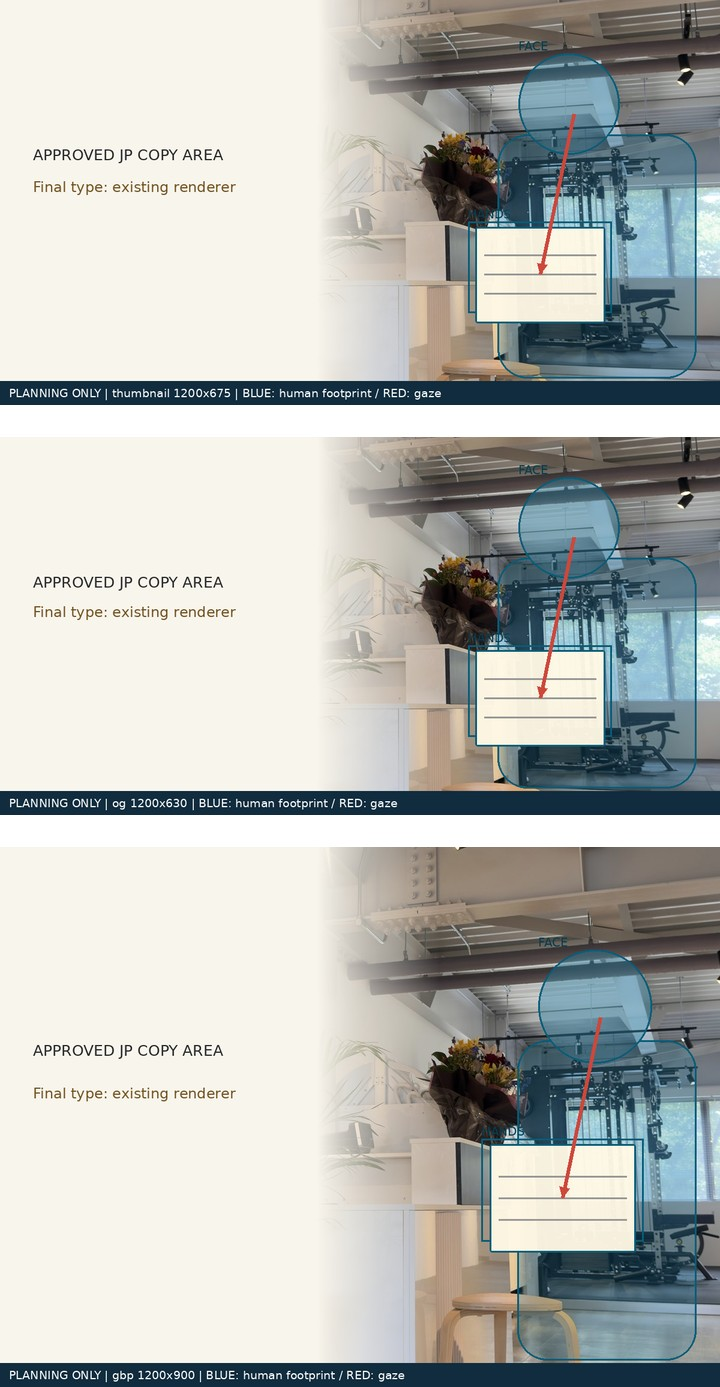
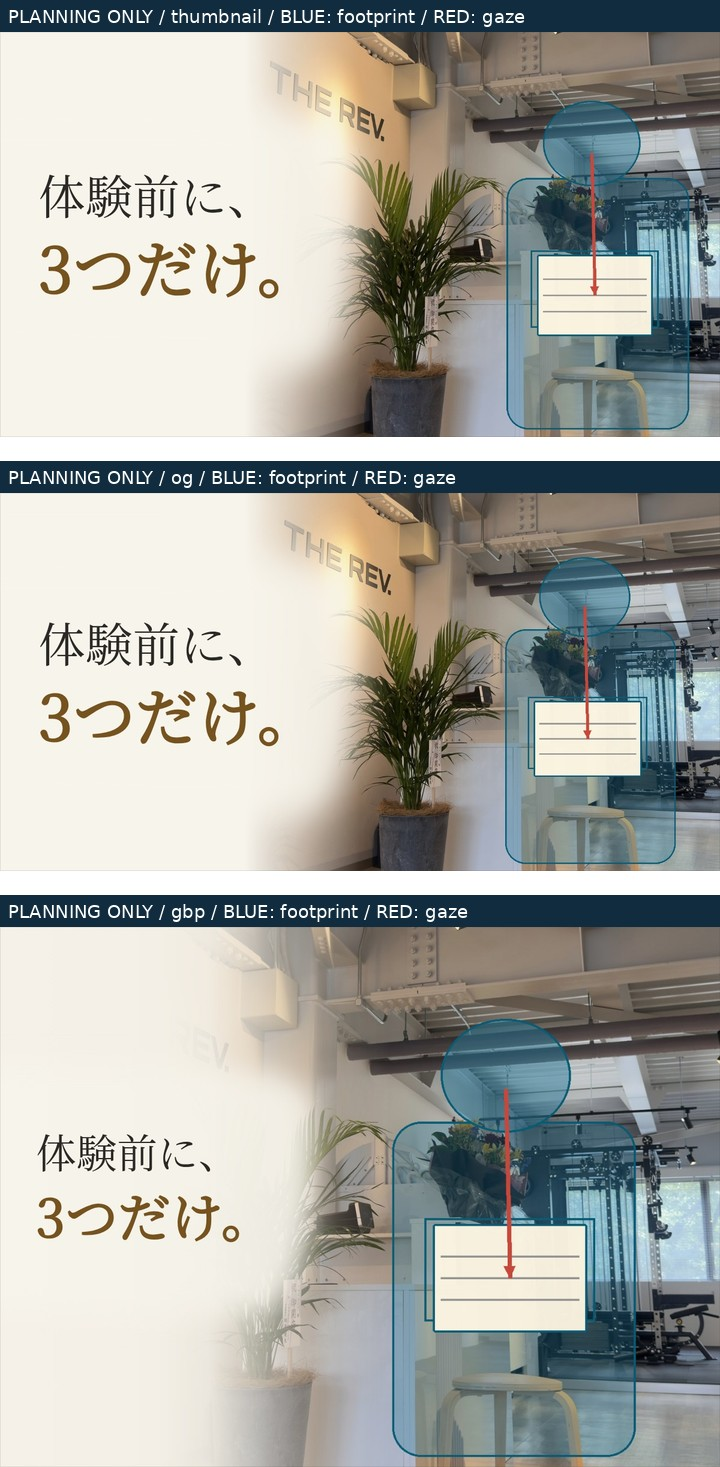
Verify Oct18 planning crops and copy through canonical offline renderer

diff --git a/scripts/render-oct18-v31-layout-plan.py b/scripts/render-oct18-v31-layout-plan.py
@@ -1,56 +1,69 @@
-"""Render exact pre-generation planning diagrams; no AI or candidate photograph."""
+"""Render a deterministic planning footprint through the real offline renderer.
+No AI calls, publication images, production job or DB mutations.
+"""
 from pathlib import Path
-import json, math, hashlib
+import hashlib, json, math, subprocess, tempfile
 from PIL import Image, ImageDraw, ImageFont
-root = Path('editorial/prepublication/2026-10-18-contract-checklist/v31-r8')
+repo = Path.cwd()
+root = repo / 'editorial/prepublication/2026-10-18-contract-checklist/v31-r8'
 report = json.loads((root / 'FREE_PREFLIGHT.json').read_text())
 brief = json.loads((root / 'CREATIVE_BRIEF.json').read_text())
-source = Image.open(brief['source']['path']).convert('RGB')
+job = json.loads((root / 'PROPOSED_JOB.json').read_text())
+source = Image.open(repo / brief['source']['path']).convert('RGB')
 scale = max(1536/source.width, 1024/source.height)
 source = source.resize((round(source.width*scale), round(source.height*scale)), Image.Resampling.LANCZOS)
 left, top = (source.width-1536)//2, (source.height-1024)//2
-scene = source.crop((left,top,left+1536,top+1024))
-font = '/usr/share/fonts/truetype/dejavu/DejaVuSans.ttf'
+scene = source.crop((left, top, left+1536, top+1024)).convert('RGBA')
+layer = Image.new('RGBA', scene.size)
+d = ImageDraw.Draw(layer)
+shot = brief['shot_contract']
+def box(key):
+    x,y,x2,y2 = shot[key]
+    return (x*1536,y*1024,x2*1536,y2*1024)
+face,hands,paper = [box(k) for k in ['face_box','hands_box','paper_box']]
+d.rounded_rectangle(box('torso_box'), radius=55, fill=(36,125,162,80), outline=(7,93,120,255), width=4)
+d.ellipse(face, fill=(36,125,162,120), outline=(7,93,120,255), width=4)
+d.rectangle(hands, outline=(7,93,120,255), width=4)
+d.rounded_rectangle(paper, radius=5, fill=(255,248,229,250), outline=(7,93,120,255), width=4)
+for t in [.3,.5,.7]:
+    yy=paper[1]+(paper[3]-paper[1])*t
+    d.line((paper[0]+15,yy,paper[2]-15,yy), fill=(150,150,150,255), width=4)
+start=tuple(a*b for a,b in zip(shot['gaze_from'],[1536,1024]))
+end=tuple(a*b for a,b in zip(shot['gaze_to'],[1536,1024]))
+d.line((*start,*end), fill=(206,71,59,255), width=8)
+a=math.atan2(end[1]-start[1],end[0]-start[0])
+d.polygon([end,(end[0]-25*math.cos(a-.45),end[1]-25*math.sin(a-.45)),(end[0]-25*math.cos(a+.45),end[1]-25*math.sin(a+.45))],fill=(206,71,59,255))
+scene=Image.alpha_composite(scene,layer).convert('RGB')
+font=ImageFont.truetype('/usr/share/fonts/truetype/dejavu/DejaVuSans.ttf',18)
+sha=lambda p:hashlib.sha256(Path(p).read_bytes()).hexdigest()
 panels=[]
-for geo in report['geometry']:
-    w,h = geo['width'],geo['height']
-    scale=max(w/1536,h/1024)
-    im=scene.resize((round(1536*scale),round(1024*scale)),Image.Resampling.LANCZOS)
-    x,y=(im.width-w)//2,(im.height-h)//2
-    im=im.crop((x,y,x+w,y+h)).convert('RGBA')
-    veil=Image.new('RGBA',im.size)
-    draw=ImageDraw.Draw(veil)
-    for x in range(w):
-        alpha=255 if x<w*.44 else max(0,round(255*(.61-x/w)/.17))
-        draw.line((x,0,x,h),fill=(248,245,237,alpha))
-    im=Image.alpha_composite(im,veil)
-    overlay=Image.new('RGBA',im.size);d=ImageDraw.Draw(overlay)
-    def box(r):return (r['x'],r['y'],r['x']+r['width'],r['y']+r['height'])
-    face=geo['face'];hands=geo['hands'];paper=geo['paper']
-    d.rounded_rectangle((face['x']-35,face['y']+face['height']*.8,w-40,h-45),radius=50,fill=(36,125,162,65),outline=(7,93,120,255),width=3)
-    d.ellipse(box(face),fill=(36,125,162,100),outline=(7,93,120,255),width=3)
-    d.rectangle(box(hands),outline=(7,93,120,255),width=3)
-    d.rounded_rectangle(box(paper),radius=4,fill=(255,248,229,245),outline=(7,93,120,255),width=3)
-    for t in [.3,.5,.7]:
-        yy=paper['y']+paper['height']*t
-        d.line((paper['x']+15,yy,paper['x']+paper['width']-15,yy),fill=(150,150,150,255),width=3)
-    start=(face['x']+face['width']*.55,face['y']+face['height']*.6)
-    end=(paper['x']+paper['width']/2,paper['y']+paper['height']/2)
-    d.line((*start,*end),fill=(206,71,59,255),width=6)
-    angle=math.atan2(end[1]-start[1],end[0]-start[0])
-    d.polygon([end,(end[0]-20*math.cos(angle-.45),end[1]-20*math.sin(angle-.45)),(end[0]-20*math.cos(angle+.45),end[1]-20*math.sin(angle+.45))],fill=(206,71,59,255))
-    for name,r in [('FACE',face),('HANDS',hands)]:d.text((r['x'],r['y']-24),name,font=ImageFont.truetype(font,20),fill=(6,61,81,255))
-    d.text((55,h*.36),'APPROVED JP COPY AREA',font=ImageFont.truetype(font,25),fill=(39,40,39,255))
-    d.text((55,h*.44),'Final type: existing renderer',font=ImageFont.truetype(font,24),fill=(115,83,32,255))
-    d.rectangle((0,h-40,w,h),fill=(16,44,62,255))
-    d.text((15,h-31),f"PLANNING ONLY | {geo['variant']} {w}x{h} | BLUE: human footprint / RED: gaze",font=ImageFont.truetype(font,19),fill='white')
-    im=Image.alpha_composite(im,overlay).convert('RGB')
-    thumb=im.resize((720,round(h*720/w)),Image.Resampling.LANCZOS)
-    panels.append(thumb)
-contact=Image.new('RGB',(720,sum(x.height for x in panels)+32*(len(panels)-1)),(255,255,255))
+with tempfile.TemporaryDirectory(prefix='oct18-layout-') as work:
+    temp=Path(work)
+    scene.save(temp/'planning-scene.png')
+    job['generated_scene_path']=str(temp/'planning-scene.png')
+    (temp/'job.json').write_text(json.dumps(job))
+    result=subprocess.run(['node',str(repo/'scripts/render-hybrid-editorial-overlay.mjs'),str(temp/'job.json')],cwd=temp,capture_output=True,text=True)
+    if result.returncode:raise RuntimeError(result.stderr)
+    rendered=json.loads(result.stdout)
+    report['canonical_renderer']={'command':'node scripts/render-hybrid-editorial-overlay.mjs <isolated-planning-job.json>','pass':rendered['typography']['pass'],'real_model_calls':0,'production_paths_written':False,'synthetic_human_footprint':True,'variants':[]}
+    if not rendered['typography']['pass']:raise ValueError('Canonical typography measurements failed')
+    for geo in report['geometry']:
+        variant=geo['variant']
+        original=Path(rendered[variant])
+        im=Image.open(original).convert('RGB')
+        if im.size!=(geo['width'],geo['height']):raise ValueError('Canonical renderer size mismatch')
+        dest=root/f'planning-{variant}.jpg'
+        dest.write_bytes(original.read_bytes())
+        metric=rendered['typography']['variants'][variant]
+        report['canonical_renderer']['variants'].append({'variant':variant,'path':str(dest.relative_to(repo)),'width':im.width,'height':im.height,'sha256':sha(dest),'typography_measurements_pass':metric['pass'],'not_visual_qc_pass':True})
+        thumb=im.resize((720,round(im.height*720/im.width)),Image.Resampling.LANCZOS)
+        panel=Image.new('RGB',(720,thumb.height+32),(16,44,62))
+        ImageDraw.Draw(panel).text((8,6),f"PLANNING ONLY / {variant} / BLUE: footprint / RED: gaze",font=font,fill='white')
+        panel.paste(thumb,(0,32));panels.append(panel)
+contact=Image.new('RGB',(720,sum(p.height for p in panels)+24*(len(panels)-1)),'white')
 yy=0
-for p in panels:contact.paste(p,(0,yy));yy+=p.height+32
+for p in panels:contact.paste(p,(0,yy));yy+=p.height+24
 contact.save(root/'LAYOUT_REVIEW.jpg',quality=90,optimize=True)
-report['planning_preview']={'path':str(root/'LAYOUT_REVIEW.jpg'),'sha256':hashlib.sha256((root/'LAYOUT_REVIEW.jpg').read_bytes()).hexdigest(),'width':contact.width,'height':contact.height,'not_generated_image':True,'not_visual_qc_pass':True}
+report['planning_preview']={'path':str((root/'LAYOUT_REVIEW.jpg').relative_to(repo)),'sha256':sha(root/'LAYOUT_REVIEW.jpg'),'width':contact.width,'height':contact.height,'not_generated_image':True,'not_visual_qc_pass':True}
 (root/'FREE_PREFLIGHT.json').write_text(json.dumps(report,indent=2,ensure_ascii=False)+'\n')
-print(root/'LAYOUT_REVIEW.jpg')
+print(json.dumps({'canonical_renderer_pass':report['canonical_renderer']['pass'],'variants':len(panels),'preview':report['planning_preview']['path']}))

diff --git a/editorial/prepublication/2026-10-18-contract-checklist/v31-r8/README.md b/editorial/prepublication/2026-10-18-contract-checklist/v31-r8/README.md
@@ -8,13 +8,13 @@
 
 実店舗の登録済み受付写真 `assets/images/photo-lobby.jpg` を使う。男性の初来店客1人が受付前景で立ち、両手で持った無記名の案内用紙へ視線を落として確認する。料金・予約・退会を確認してから決める、という記事の動作を表す。実店舗がこの用紙や説明手順を使用しているとは主張しない。読める料金・規約・ロゴ等を用紙に生成しない。スタッフ、署名、スマートフォン、設備操作を描かない。
 
-`LAYOUT_REVIEW.jpg` とSVGは構図図面。実際の人物写真・生成結果・品質合格画像ではない。3形式の顔・手・紙面と文字領域の分離のみ無料で検証した。最終文字組みは既存レンダラーで行い、生成後の独立QCで確認する。R7は撮影品質の比較基準に使い、ポーズはコピーしない。
+`LAYOUT_REVIEW.jpg` とSVGと planning-*.jpg は構図図面。実際の人物写真・生成結果・品質合格画像ではない。横長の写真右66%配置、GBP全幅配置という正規レンダラーと同じ切り抜きで、顔・手・紙面と文字領域の分離を無料検証した。青い人物領域と赤い視線を実写に重ねた合成図を、隔離ディレクトリで実際の正規レンダラーへ渡し、既存の日本語コピーを組んだ planning-*.jpg 3形式を保存した。寸法・SHA256・機械的文字組み測定はPASS。生成後には実画像の文字組みも独立QCで確認する。R7は撮影品質の比較基準に使い、ポーズはコピーしない。
 
 ## 接続修正と検証
 
 保存済みブリーフの `shot_contract` を生成コードが `shooting_brief` として読んでいた不一致を修正。R8では記事・画像版・素材SHA・動作・視線・コピー・1生成/2QC上限を同じ無料検証器で確認する。
 
-有料処理はOwner承認レコードの本文・ジョブハッシュとの結合が必要。フラグだけの変更では実行しない。R8に限定した実店舗写真の再利用も、明示承認と独立した実景/動作/直近12記事の比較が必要。同じシーンや実景不一致を許すものではなく、既存の独立QC・写実性各軸9以上・人間の不採用優先を維持する。
+有料処理はOwner承認レコードとブリーフ・ジョブハッシュの結合が必要。フラグだけの変更では実行しない。R8に限定した実店舗写真の再利用も、明示承認と独立した実景/動作/直近12記事の比較が必要。同じシーンや実景不一致を許すものではなく、既存の独立QC・写実性各軸9以上・人間の不採用優先を維持する。
 
 `FREE_PREFLIGHT.json` は設計PASS。モデルAPI呼び出し・本番変更は0回。`VALIDATION.json` に実行した無料検証を記録。実オペレーターを隔離ディレクトリで動かし、未承認/不一致では呼び出し0回、新しい動作と視線が合成APIのリクエストまで届くことを確認した。テストの承認・QAは合成データで、本番の承認ではない。
 
